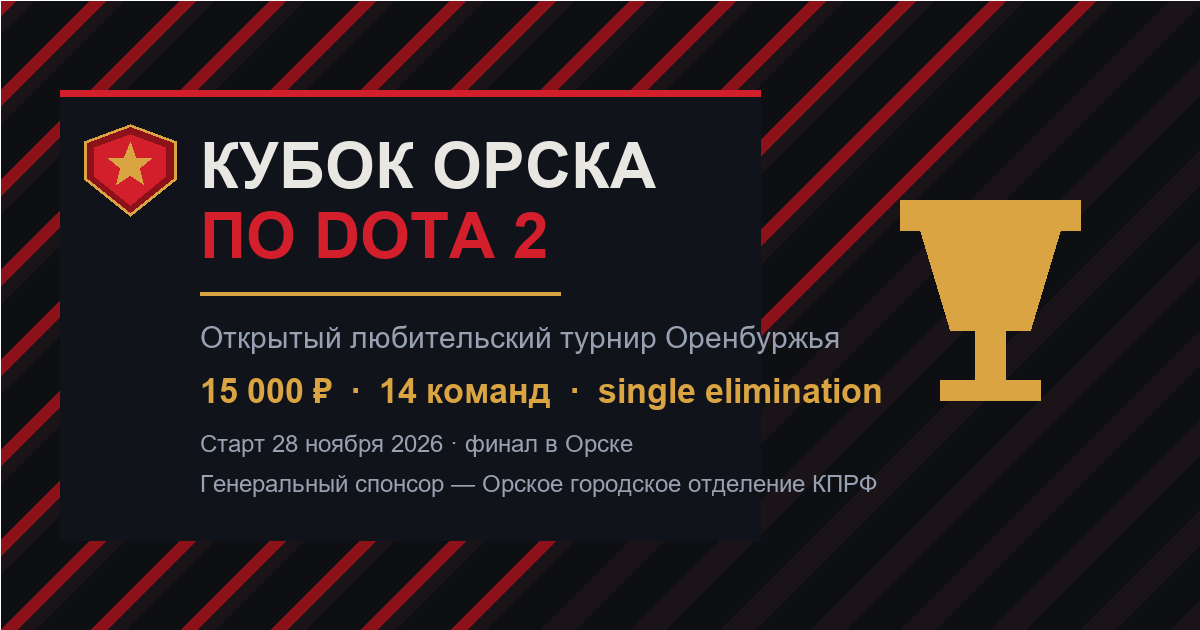
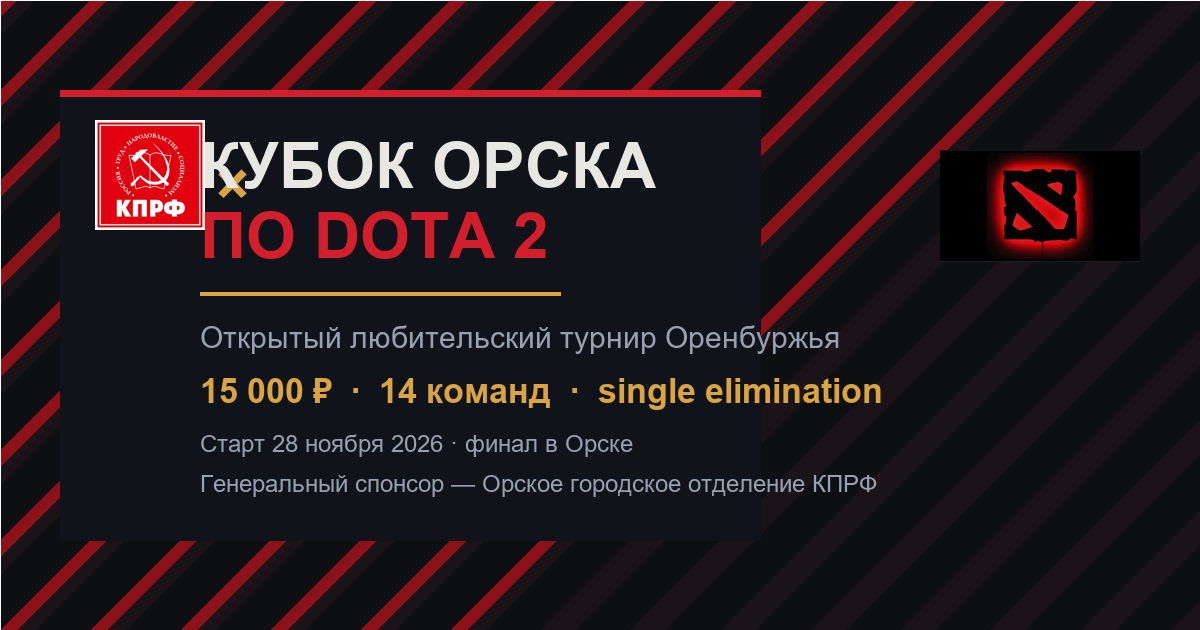
Брендинг: логотипы КПРФ и Dota 2 как единая связка (шапка, hero, OG)

Changed region(s): [[0.74, 0.2413, 0.9558, 0.6635], [0.0617, 0.181, 0.2158, 0.3921], [0.7708, 0.2413, 0.8017, 0.2714]]

diff --git a/assets/css/site.css b/assets/css/site.css
@@ -107,6 +107,43 @@
 }
 .sponsor-line img { height: 40px; width: auto; }
 
+/* Связка «КПРФ × Dota 2»: два логотипа как единая эмблема */
+.fusion {
+  display: flex; align-items: center; gap: 20px; margin-top: 34px;
+  padding: 14px 18px;
+  background: linear-gradient(90deg, rgba(210,31,43,.14), rgba(13,15,19,0) 70%);
+  border: 1px solid var(--line-soft);
+  border-left: 3px solid var(--red);
+  border-radius: var(--radius-lg);
+  max-width: 560px;
+}
+.fusion-marks { display: flex; align-items: center; gap: 10px; flex: none; }
+.fusion-marks img {
+  height: 56px; width: 56px; object-fit: contain; border-radius: 6px;
+  background: #fff; padding: 3px; box-shadow: 0 4px 14px rgba(0,0,0,.4);
+}
+.fusion-marks img[alt="Dota 2"] { background: #000; }
+.fusion-x {
+  font-family: var(--font-display); font-size: 22px; color: var(--gold);
+}
+.fusion-text { display: grid; gap: 2px; }
+.fusion-text strong {
+  font-family: var(--font-display); font-size: 15px; letter-spacing: .04em;
+  text-transform: uppercase; color: var(--text);
+}
+.fusion-text span { font-size: 12px; color: var(--muted); }
+@media (max-width: 560px) {
+  .fusion { flex-direction: column; align-items: flex-start; }
+}
+
+/* Двойной логотип в шапке */
+.brand-marks { display: flex; align-items: center; gap: 4px; flex: none; }
+.brand-marks img {
+  height: 30px; width: 30px; object-fit: contain; border-radius: 4px;
+  background: #fff; padding: 2px;
+}
+.brand-marks img.dota { background: #000; }
+
 /* ---------- Обратный отсчёт ---------- */
 .countdown { display: flex; gap: 10px; }
 .countdown .cell {

diff --git a/index.html b/index.html
@@ -46,9 +46,16 @@
       <a class="btn btn-gold" href="bracket.html">Смотреть сетку</a>
     </div>
 
-    <div class="sponsor-line">
-      <img src="assets/img/kprf-lockup.svg" alt="КПРФ Орск — генеральный спонсор">
-      <span>Генеральный спонсор турнира — Орское городское отделение КПРФ</span>
+    <div class="fusion">
+      <div class="fusion-marks">
+        <img src="assets/img/kprf.png" alt="КПРФ">
+        <span class="fusion-x">×</span>
+        <img src="assets/img/dota2.png" alt="Dota 2">
+      </div>
+      <div class="fusion-text">
+        <strong>КПРФ и Dota 2 — единое целое</strong>
+        <span>Орское городское отделение КПРФ — генеральный спонсор турнира</span>
+      </div>
     </div>
 
     <div class="hero-facts">

diff --git a/assets/js/chrome.js b/assets/js/chrome.js
@@ -54,7 +54,12 @@
     const burger = el('button', { class: 'burger', 'aria-label': 'Меню', text: '☰',
       onclick: () => nav.classList.toggle('open') });
 
-    const brand = el('a', { class: 'brand', href: ROOT + 'index.html', html: EMBLEM });
+    const brand = el('a', { class: 'brand', href: ROOT + 'index.html' });
+    const marks = el('span', { class: 'brand-marks' }, [
+      el('img', { src: ROOT + 'assets/img/kprf.png', alt: 'КПРФ' }),
+      el('img', { class: 'dota', src: ROOT + 'assets/img/dota2.png', alt: 'Dota 2' })
+    ]);
+    brand.append(marks);
     const nameBox = el('span', { class: 'name' });
     nameBox.append(document.createTextNode(settings?.site?.short_title || 'Кубок Орска'));
     nameBox.append(el('small', { text: 'Dota 2 · Орск' }));
